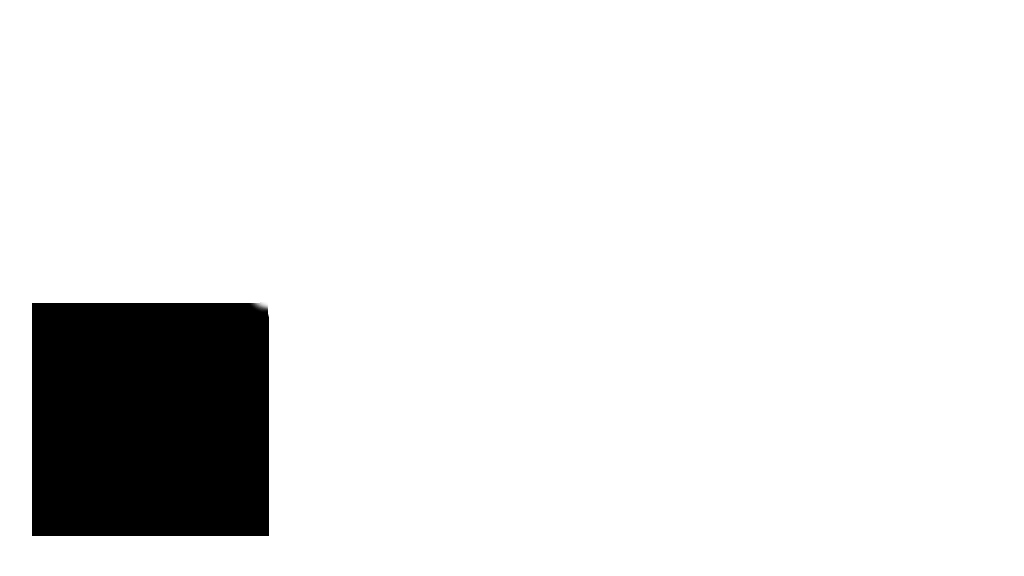
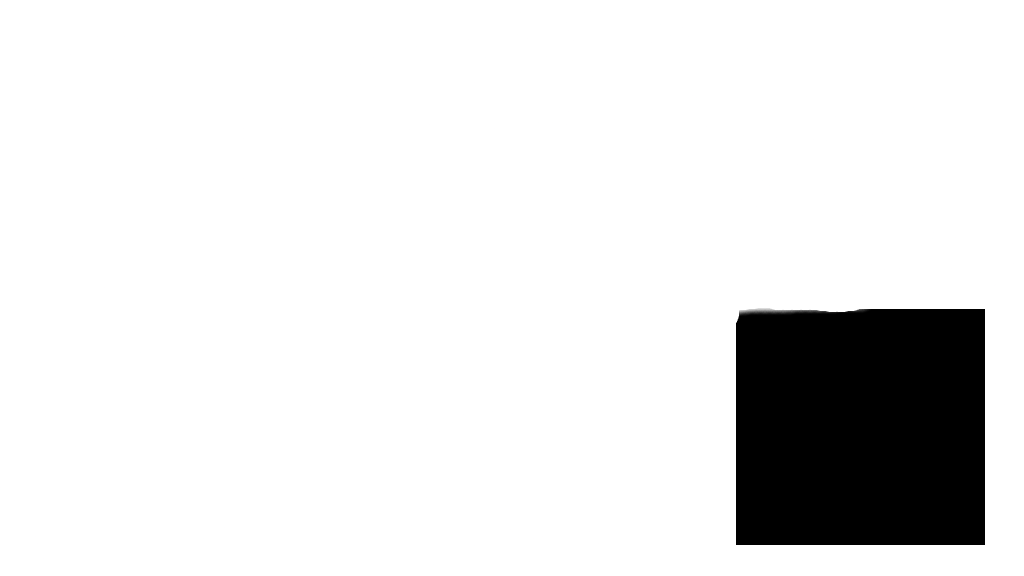
- Better text and effects - Swapped masks for proper character placement

Changed region(s): [[0.7188, 0.5312, 0.9688, 0.9688], [0.0312, 0.5, 0.2812, 0.9375]]

diff --git a/backend/main.py b/backend/main.py
@@ -7,7 +7,7 @@ from pydantic import BaseModel
 from dotenv import load_dotenv
 from invoke import InvokeClient
 from gemini_client import GeminiClient
-from video_gen import generate_video_from_scene_data
+from video_gen import generate_video_from_scene_data, SPEECH_BUBBLE_CONFIGS
 from voice_generation import VoiceSynthesizer
 
 # Load environment variables from .env file
@@ -235,11 +235,40 @@ async def websocket_progress(websocket: WebSocket):
         else:
             print("Audio directory not found - video will be generated without audio")
         
-        # Use the new video_gen module with detailed logging
+        # Use the new video_gen module with improved speech bubbles
         print("Starting video generation with scene data and audio files...")
         print(f"Scene data contains {len(scene_data.get('scene', {}).get('dialogues', []))} dialogues")
         
-        success = generate_video_from_scene_data(BASE_DIR, scene_data)
+        # Generate dynamic character positions based on actual characters from Gemini
+        scene_info = scene_data.get('scene', {})
+        characters = scene_info.get('characters', [])
+        
+        # Create character positions dynamically
+        character_positions = {}
+        sides = ["left", "right"]  # Alternate between left and right
+        
+        for i, character in enumerate(characters):
+            char_name = character.get('name', f'Character_{i+1}')
+            side = sides[i % len(sides)]  # Alternate sides
+            
+            character_positions[char_name] = {
+                "side": side,
+                "max_width": 450,  # Use modern bubble width
+                "tail_side": side  # Tail points in same direction as position
+            }
+        
+        # Use modern_bubbles config as default (best looking)
+        bubble_config = SPEECH_BUBBLE_CONFIGS.get("modern_bubbles", {})
+        
+        print(f"Generated character positions: {list(character_positions.keys())}")
+        print(f"Using speech bubble config: modern_bubbles")
+        
+        success = generate_video_from_scene_data(
+            BASE_DIR, 
+            scene_data, 
+            character_positions=character_positions
+        )
+        
         if not success:
             await websocket.send_json({"status": "error", "message": "Video generation failed"})
             return
